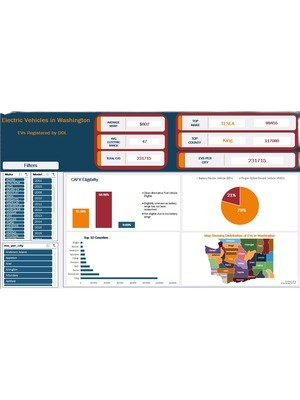
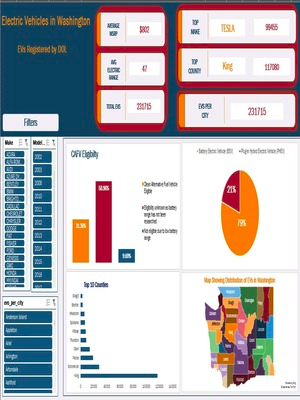
Image resize

diff --git a/css/styles.css b/css/styles.css
@@ -599,7 +599,7 @@ progress {
 
 .img-fluid {
   max-width: 100%;
-  height: 100%;
+  height: auto;
 }
 
 .img-thumbnail {
